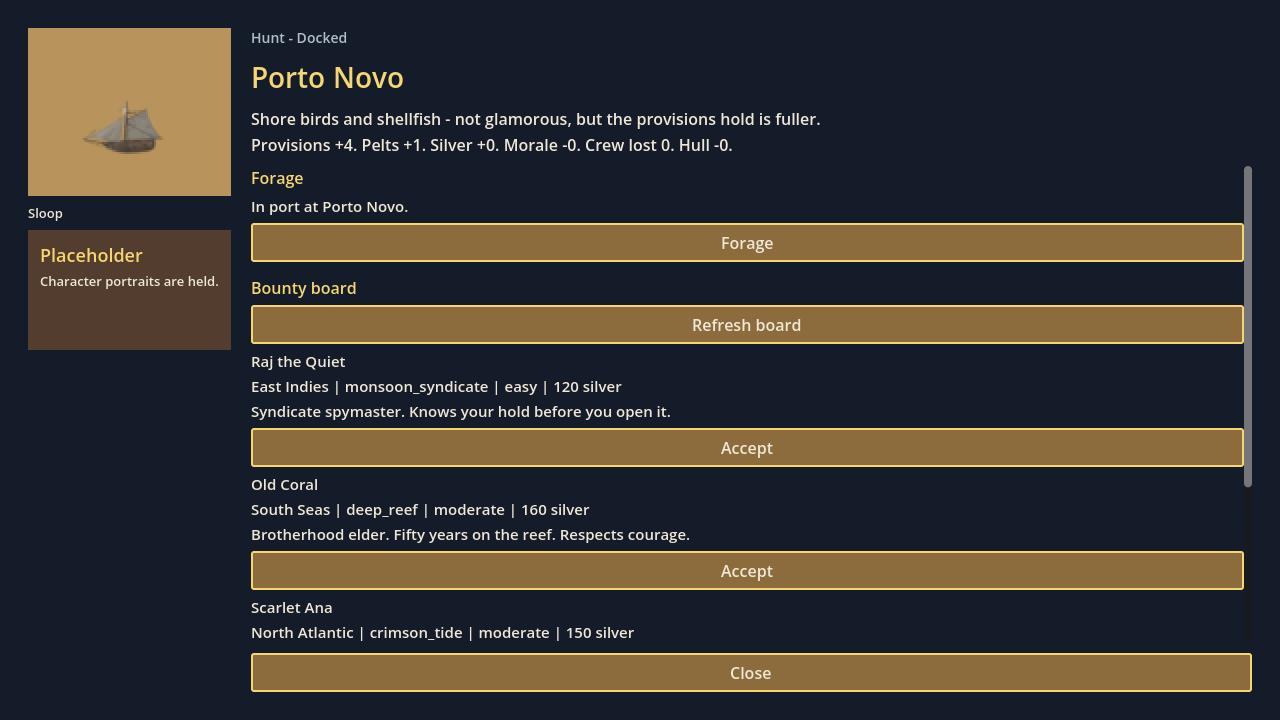
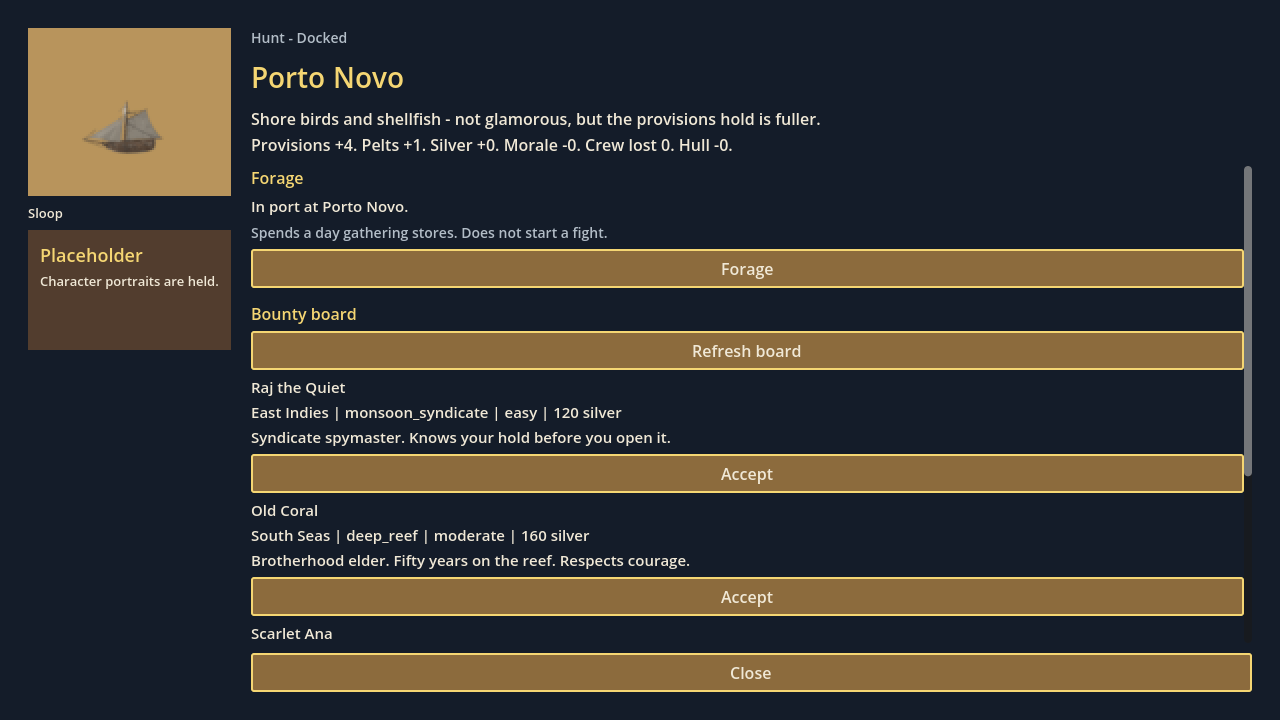
Hunt: muted Forage helper (C1)
Adds FORAGE_HELPER under the Forage status line using the existing
wrapped(text, 14, MUTED) note style. Shown always, docked and at sea.
Hunt smoke asserts the label is rendered in both states. Hunt frames
refreshed.

Changed region(s): [[0.1875, 0.3056, 1.0, 0.8861]]

diff --git a/crates/portlight-godot/src/hunt_screen.rs b/crates/portlight-godot/src/hunt_screen.rs
@@ -28,6 +28,9 @@ const MUTED: Color = Color::from_rgb(0.7, 0.74, 0.78);
 pub(crate) const ACTIVE_CAP: usize = 3;
 
 pub(crate) const FORAGE_BUTTON: &str = "Forage";
+/// Muted helper under the Forage status line. Shown always, at sea and in
+/// port, whatever the bounty state. Forage costs a day; it never opens a fight.
+pub(crate) const FORAGE_HELPER: &str = "Spends a day gathering stores. Does not start a fight.";
 pub(crate) const HUNT_TARGET_BUTTON: &str = "Hunt target";
 pub(crate) const CLAIM_BUTTON: &str = "Claim";
 pub(crate) const EMPTY_BOARD: &str = "No bounties on the board.";
@@ -500,6 +503,7 @@ pub(crate) fn rebuild_body(
     clear_box(body);
     let mut forage = section("Forage");
     forage.add_child(&wrapped(&model.forage_status, 15, CREAM));
+    forage.add_child(&wrapped(FORAGE_HELPER, 14, MUTED));
     let mut forage_button = make(FORAGE_BUTTON, HuntAction::Forage);
     forage_button.set_disabled(!model.forage_enabled);
     forage.add_child(&forage_button);
@@ -578,6 +582,16 @@ pub(crate) fn scroll_to(
             }
         }
     }
+}
+
+/// True when the Forage section in `body` shows [`FORAGE_HELPER`]. Smoke check.
+pub(crate) fn forage_helper_shown(body: &Gd<VBoxContainer>) -> bool {
+    body.get_children()
+        .iter_shared()
+        .filter(|section| section.get_name() == "HuntForage")
+        .flat_map(|section| section.get_children().iter_shared().collect::<Vec<_>>())
+        .filter_map(|child| child.try_cast::<Label>().ok())
+        .any(|label| label.get_text() == FORAGE_HELPER)
 }
 
 pub(crate) fn clear_row(node: &mut Gd<HBoxContainer>) {
@@ -757,6 +771,16 @@ mod tests {
         assert!(!notice.to_lowercase().contains("hunt bounty"));
         assert_eq!(FORAGE_BUTTON, "Forage");
         assert!(!FORAGE_BUTTON.to_lowercase().contains("bounty"));
+    }
+
+    #[test]
+    fn forage_helper_copy_is_pinned_and_ascii() {
+        assert_eq!(
+            FORAGE_HELPER,
+            "Spends a day gathering stores. Does not start a fight."
+        );
+        assert!(FORAGE_HELPER.is_ascii());
+        assert!(!FORAGE_HELPER.contains("  "));
     }
 
     #[test]

diff --git a/crates/portlight-godot/src/game.rs b/crates/portlight-godot/src/game.rs
@@ -6869,6 +6869,9 @@ impl PortlightGame {
         {
             self.fail_hunt("Hunt smoke: docked title was not the port name.");
         }
+        if !self.hunt_forage_helper_shown() {
+            self.fail_hunt("Hunt smoke: docked Forage helper missing.");
+        }
         self.forage_day();
         let sailed = self.session.as_ref().is_some_and(|session| {
             session.world().day == day + 1
@@ -6938,6 +6941,9 @@ impl PortlightGame {
         });
         if !sea_ok {
             self.fail_hunt("Hunt smoke: sea forage status did not name the morale gate.");
+        }
+        if !self.hunt_forage_helper_shown() {
+            self.fail_hunt("Hunt smoke: sea Forage helper missing.");
         }
         let sea_day = self
             .session
@@ -7044,6 +7050,12 @@ impl PortlightGame {
         self.push_log(line);
         self.smoke_ok = false;
         self.hunt_checked = true;
+    }
+
+    fn hunt_forage_helper_shown(&self) -> bool {
+        self.hunt_nodes
+            .as_ref()
+            .is_some_and(|nodes| hunt_screen::forage_helper_shown(&nodes.body))
     }
 
     fn hunt_model_now(&self) -> Option<hunt_screen::HuntModel> {
